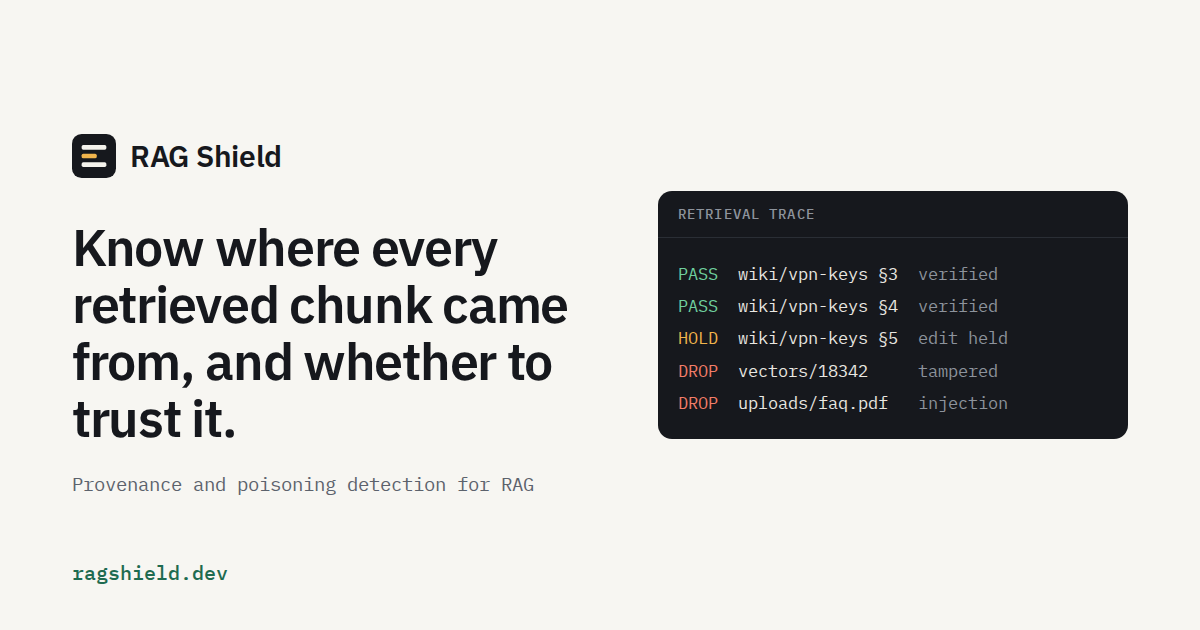
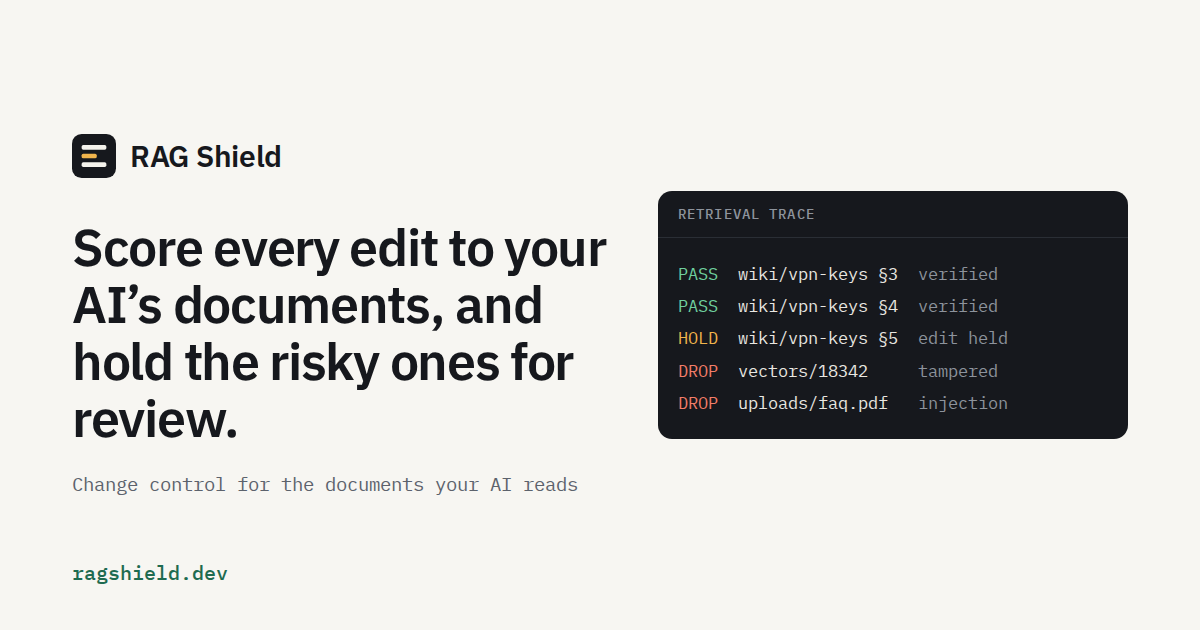
fix(site): lead with edit scoring and holds

diff --git a/site/public/index.html b/site/public/index.html
@@ -3,14 +3,14 @@
 <head>
 <meta charset="utf-8">
 <meta name="viewport" content="width=device-width, initial-scale=1">
-<title>RAG Shield · Provenance and poisoning detection for RAG</title>
-<meta name="description" content="RAG Shield signs every chunk in your vector database, isolates what each edit to a trusted page adds, and checks every retrieved chunk before your model sees it.">
+<title>RAG Shield · Change control for the documents your AI reads</title>
+<meta name="description" content="RAG Shield scores what each edit to your AI&#8217;s documents adds, holds risky edits for review while the previous version keeps serving, and signs every chunk with its version and editor.">
 <link rel="canonical" href="https://ragshield.dev/">
 <meta property="og:type" content="website">
 <meta property="og:url" content="https://ragshield.dev/">
 <meta property="og:site_name" content="RAG Shield">
-<meta property="og:title" content="RAG Shield: provenance and poisoning detection for RAG">
-<meta property="og:description" content="Know where every retrieved chunk came from, and whether to trust it.">
+<meta property="og:title" content="RAG Shield: change control for the documents your AI reads">
+<meta property="og:description" content="Score every edit to your AI&#8217;s documents, and hold the risky ones for review.">
 <meta property="og:image" content="https://ragshield.dev/og.png">
 <meta property="og:image:width" content="1200">
 <meta property="og:image:height" content="630">
@@ -43,13 +43,14 @@
 <main id="main">
 <section class="wrap hero">
   <div class="hero-head">
-    <p class="kicker">Provenance and poisoning detection for retrieval-augmented AI</p>
-    <h1>Know where every retrieved chunk came from, and whether to trust it.</h1>
+    <p class="kicker">Change control for the documents your AI reads</p>
+    <h1>Score every edit to your AI&#8217;s documents, and hold the risky ones for review.</h1>
   </div>
   <div class="hero-copy">
     <p class="lede">Your assistant trusts whatever sits in its index, and anyone who can edit a wiki page or ticket can put text there.
-      RAG Shield signs every chunk at ingestion, isolates what each edit to a trusted page adds, and checks every chunk at
-      retrieval, before your model sees it.</p>
+      RAG Shield compares each edit with the last approved version and scores only what it adds. A risky edit waits for
+      review while the previous version keeps serving, and every chunk is signed with its version and editor, so each answer
+      traces back to who changed what.</p>
     <div class="cta">
       <a class="btn" href="#partner">Become a design partner</a>
       <button class="code-btn" type="button" data-copy="pip install rag-shield" aria-label="Copy install command">
